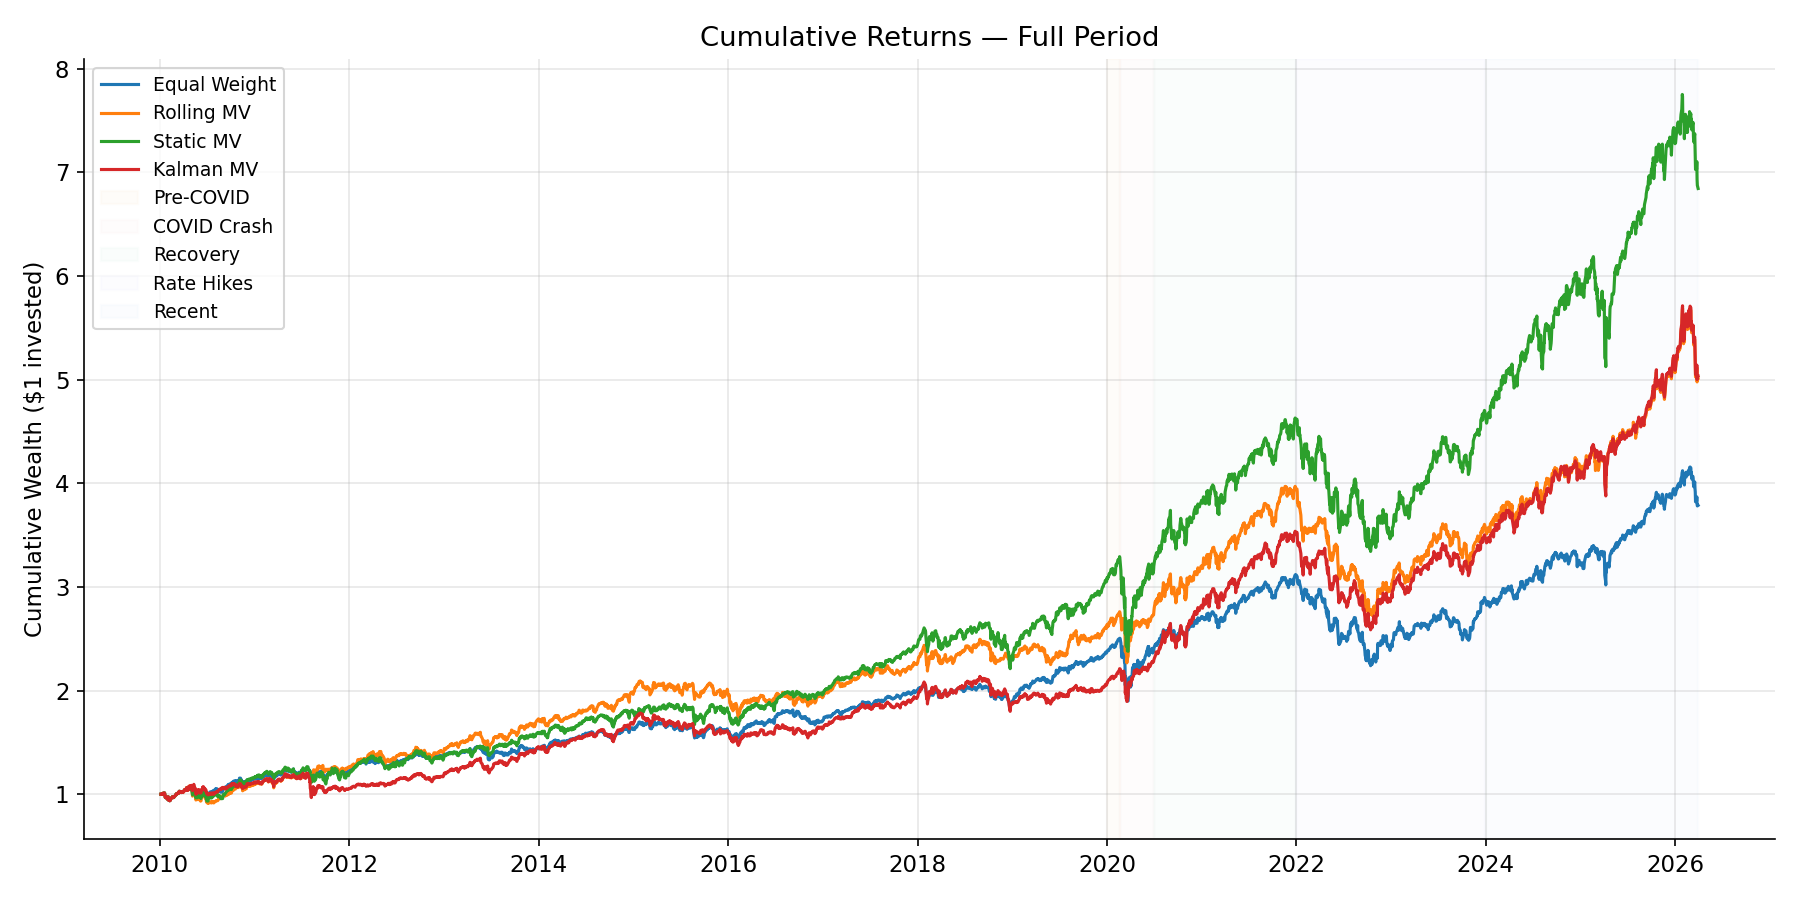
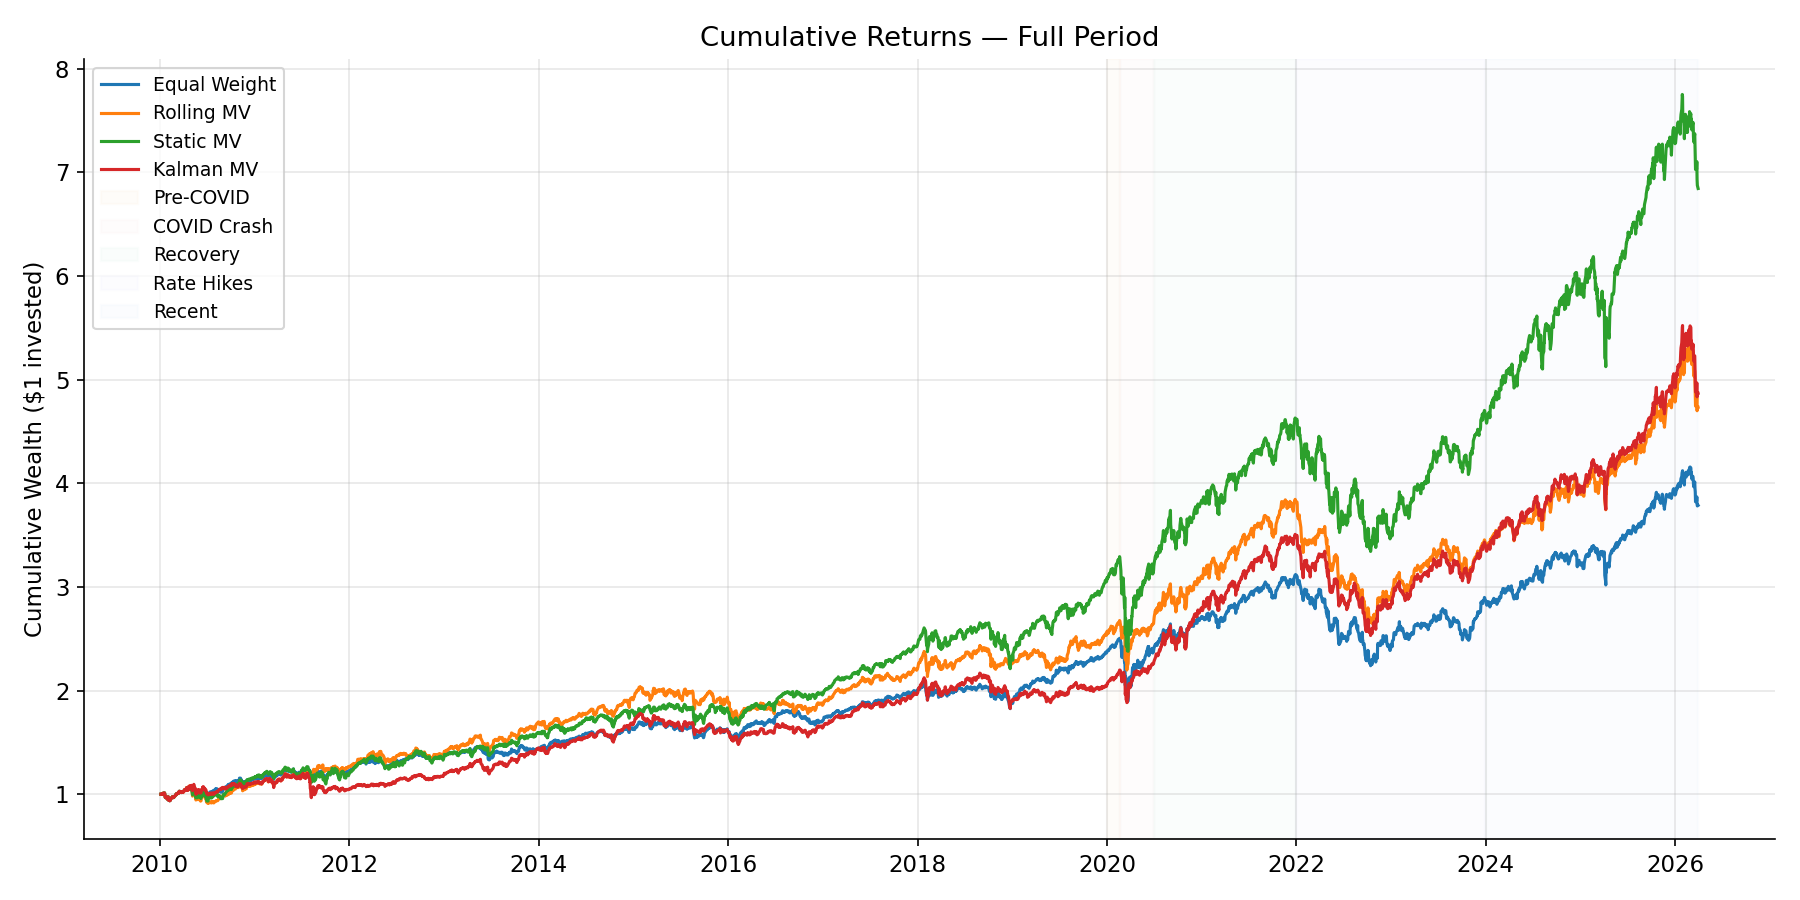
fix: consistent Sharpe calculation and Kalman OOS warm-up in cost_analysis

Changed region(s): [[0.2489, 0.3422, 0.9644, 0.8711]]

diff --git a/cost_analysis.py b/cost_analysis.py
@@ -29,10 +29,12 @@ COST_LEVELS_BPS = [0, 5, 10, 20]
 
 
 def annualized_metrics(daily_returns: pd.Series) -> dict:
-    ann_ret = daily_returns.mean() * 252
+    cumulative = (1 + daily_returns).cumprod()
+    total_return = cumulative.iloc[-1] / cumulative.iloc[0]
+    n_years = len(daily_returns) / 252
+    ann_ret = total_return ** (1 / n_years) - 1          # CAGR — matches evaluation.py
     ann_vol = daily_returns.std() * np.sqrt(252)
     sharpe  = ann_ret / ann_vol if ann_vol > 0 else 0.0
-    cumulative  = (1 + daily_returns).cumprod()
     max_dd  = ((cumulative - cumulative.cummax()) / cumulative.cummax()).min()
     return {
         "Ann. Return (%)": round(ann_ret * 100, 2),
@@ -48,23 +50,30 @@ def run_sensitivity(
     period_label: str = "Full",
     regime_labels: pd.Series = None,
     regime_alphas: dict = None,
+    turnover_gamma: float = 0.0,
 ) -> pd.DataFrame:
     rows = []
 
     for bps in COST_LEVELS_BPS:
         strategies = [
-            ("Equal Weight", equal_weight_strategy,          0.0),
-            ("Rolling MV",   make_rolling_mv_strategy(),     bps),
-            ("Static MV",    make_static_mv_strategy(train), 0.0),
+            ("Equal Weight", equal_weight_strategy,                           0.0),
+            ("Rolling MV",   make_rolling_mv_strategy(
+                                turnover_gamma=turnover_gamma),               bps),
+            ("Static MV",    make_static_mv_strategy(train),                  0.0),
             ("Kalman MV",    make_kalman_strategy(
                                 train,
                                 q_scale=config.Q_SCALE,
                                 regime_labels=regime_labels,
                                 regime_alphas=regime_alphas,
-                             ), bps),
+                                turnover_gamma=turnover_gamma,
+                             ),                                               bps),
         ]
 
         for name, strat_func, effective_bps in strategies:
+            if name == "Kalman MV" and period_label == "OOS":
+                for i in range(len(train)):
+                    strat_func(train.index[i], train.iloc[:i+1])
+
             result = run_backtest(returns, strat_func, name=name, cost_bps=effective_bps)
             m = annualized_metrics(result["daily_returns"])
             avg_turnover = result["turnover_series"].mean() if len(result["turnover_series"]) > 0 else 0.0
@@ -134,14 +143,14 @@ if __name__ == "__main__":
     returns = compute_returns(prices)
     train, test = split_data(returns)
 
-    # ── Full period ──────────────────────────────────────────────
+    # Full period
     print("\n=== Full Period ===")
     df_full = run_sensitivity(returns, train, period_label="Full")
     print_sharpe_pivot(df_full, "Full")
     df_full.to_csv(f"{RESULTS_DIR}/cost_sensitivity.csv", index=False)
     plot_sensitivity(df_full, period_label="Full", filename="cost_sensitivity_full.png")
 
-    # ── OOS test period ──────────────────────────────────────────
+    # OOS test period
     print("\n=== OOS Test Period ===")
     df_oos = run_sensitivity(test, train, period_label="OOS")
     print_sharpe_pivot(df_oos, "OOS")

diff --git a/main.py b/main.py
@@ -68,6 +68,8 @@ def main():
 
     # Sync config
     config.Q_REGIME_ALPHAS = regime_alphas
+    
+    turnover_gamma = 0.00005  # starting value, tune later
 
     # Build filter for plotting purposes
     kf_for_plot = build_filter_from_training(train, q_scale=q_best)
@@ -78,14 +80,15 @@ def main():
 
     strategies = [
         ("Equal Weight", equal_weight_strategy),
-        ("Rolling MV",   make_rolling_mv_strategy()),
+        ("Rolling MV",   make_rolling_mv_strategy(turnover_gamma=turnover_gamma)),
         ("Static MV",    make_static_mv_strategy(train)),
         ("Kalman MV",    make_kalman_strategy(
                             train,
                             q_scale=q_best,
                             regime_labels=regime_labels,
                             regime_alphas=regime_alphas,
-                         )),
+                            turnover_gamma=turnover_gamma,
+                        )),
     ]
 
     # Full period (train + test)
@@ -215,16 +218,11 @@ def main():
 
     from cost_analysis import run_sensitivity, plot_sensitivity, print_sharpe_pivot
 
-    try:
-        df_costs_full = run_sensitivity(
-            returns, train, period_label="Full",
-            regime_labels=regime_labels, regime_alphas=regime_alphas,
-        )
-        print(df_costs_full.columns.tolist())
-    except Exception as e:
-        import traceback
-        traceback.print_exc()
-
+    df_costs_full = run_sensitivity(
+        returns, train, period_label="Full",
+        regime_labels=regime_labels, regime_alphas=regime_alphas,
+        turnover_gamma=turnover_gamma,
+    )
     print_sharpe_pivot(df_costs_full, "Full")
     df_costs_full.to_csv(f"{RESULTS_DIR}/cost_sensitivity.csv", index=False)
     plot_sensitivity(df_costs_full, period_label="Full", filename="cost_sensitivity_full.png")
@@ -232,10 +230,12 @@ def main():
     df_costs_oos = run_sensitivity(
         test, train, period_label="OOS",
         regime_labels=regime_labels, regime_alphas=regime_alphas,
+        turnover_gamma=turnover_gamma,
     )
     print_sharpe_pivot(df_costs_oos, "OOS")
     df_costs_oos.to_csv(f"{RESULTS_DIR}/cost_sensitivity_oos.csv", index=False)
     plot_sensitivity(df_costs_oos, period_label="OOS", filename="cost_sensitivity_oos.png")
+
     print("\n=== ALL DONE ===")
     print(f"Results: ./{RESULTS_DIR}/")
     print(f"Plots:   ./{PLOTS_DIR}/")

diff --git a/benchmarks.py b/benchmarks.py
@@ -30,21 +30,23 @@ def equal_weight_strategy(date, returns_so_far):
 
 # 2. Rolling Mean-Variance 
 
-def make_rolling_mv_strategy(cov_window=COV_WINDOW, ret_window=RETURN_WINDOW):
-    """
-    Factory: creates a rolling mean-variance strategy.
-    Uses rolling sample mean and rolling sample covariance.
-    """
+def make_rolling_mv_strategy(cov_window=COV_WINDOW, ret_window=RETURN_WINDOW, turnover_gamma=0.0):
+    n_assets = [None]
+    w_prev = [None]
+
     def strategy(date, returns_so_far):
         if len(returns_so_far) < cov_window:
             n = returns_so_far.shape[1]
-            return np.ones(n) / n
+            w_prev[0] = np.ones(n) / n
+            return w_prev[0]
 
         recent = returns_so_far.iloc[-cov_window:]
         mu = recent.mean().values
         sigma = recent.cov().values
 
-        return optimize_portfolio(mu, sigma)
+        w = optimize_portfolio(mu, sigma, w_prev=w_prev[0], turnover_gamma=turnover_gamma)
+        w_prev[0] = w.copy()
+        return w
 
     return strategy
 
@@ -74,15 +76,15 @@ def make_kalman_strategy(
     cov_window: int = COV_WINDOW,
     regime_labels: pd.Series = None,
     regime_alphas: dict = None,
+    turnover_gamma: float = 0.0,       # add this
 ):
     n_assets = train_returns.shape[1]
-
     R = train_returns.cov().values
     kf = KalmanReturnFilter(n_assets=n_assets, q_scale=q_scale, R=R)
     mu_0 = train_returns.mean().values
     kf.initialize(mu_0=mu_0)
-
     last_processed_idx = 0
+    w_prev = [None]                    # add this
 
     def strategy(date, returns_so_far):
         nonlocal last_processed_idx
@@ -104,16 +106,18 @@ def make_kalman_strategy(
             kf.update(r_t)
 
         last_processed_idx = current_len
-
         mu_kf = kf.mu_hat.copy()
 
         if current_len < cov_window:
             n = returns_so_far.shape[1]
-            return np.ones(n) / n
+            w_prev[0] = np.ones(n) / n
+            return w_prev[0]
 
         recent = returns_so_far.iloc[-cov_window:]
         sigma = recent.cov().values
 
-        return optimize_portfolio(mu_kf, sigma)
+        w = optimize_portfolio(mu_kf, sigma, w_prev=w_prev[0], turnover_gamma=turnover_gamma)
+        w_prev[0] = w.copy()           # add this
+        return w
 
     return strategy

diff --git a/optimizer.py b/optimizer.py
@@ -19,38 +19,28 @@ def optimize_portfolio(
     risk_aversion: float = RISK_AVERSION,
     long_only: bool = LONG_ONLY,
     max_weight: float = MAX_WEIGHT,
+    w_prev: np.ndarray = None,
+    turnover_gamma: float = 0.0,
 ) -> np.ndarray:
-    """
-    Solve the mean-variance optimization problem.
-
-    Parameters
-    ----------
-    mu    : expected return vector (n_assets,)
-    sigma : covariance matrix (n_assets x n_assets)
-    risk_aversion : lambda parameter (higher = more conservative)
-    long_only : if True, enforce w >= 0
-    max_weight : maximum weight per asset (position cap)
-
-    Returns
-    -------
-    Optimal weight vector (n_assets,)
-    Returns equal-weight if optimization fails.
-    """
     n = len(mu)
     w = cp.Variable(n)
 
-    # Objective: maximize expected return minus risk penalty
     ret = mu @ w
     risk = cp.quad_form(w, sigma)
-    objective = cp.Maximize(ret - (risk_aversion / 2) * risk)
+    objective_expr = ret - (risk_aversion / 2) * risk
 
-    # Constraints
+    # Turnover penalty: penalise L1 deviation from previous weights
+    if w_prev is not None and turnover_gamma > 0.0:
+        turnover = cp.norm1(w - w_prev)
+        objective_expr = objective_expr - turnover_gamma * turnover
+
+    objective = cp.Maximize(objective_expr)
+
     constraints = [cp.sum(w) == 1]
     if long_only:
         constraints.append(w >= 0)
-    constraints.append(w <= max_weight)  # position cap
+    constraints.append(w <= max_weight)
 
-    # Solve
     problem = cp.Problem(objective, constraints)
     try:
         problem.solve(solver=cp.OSQP, warm_start=True)
@@ -63,5 +53,4 @@ def optimize_portfolio(
     except Exception:
         pass
 
-    # Fallback: equal weight
     return np.ones(n) / n

diff --git a/config.py b/config.py
@@ -13,6 +13,7 @@ TEST_END    = "2026-03-31"
 # All strategy functions accept q_scale as an argument so EM value propagates.
 Q_SCALE = 1e-5   # fallback default, overridden by EM in main.py
 Q_REGIME_ALPHAS = {}  # populated at runtime by calibrate_regime_alphas
+TURNOVER_GAMMA = 0.0  # overridden at runtime via CV
 
 # Portfolio Optimization
 RISK_AVERSION   = 2.0    # lambda in mean-variance objective
